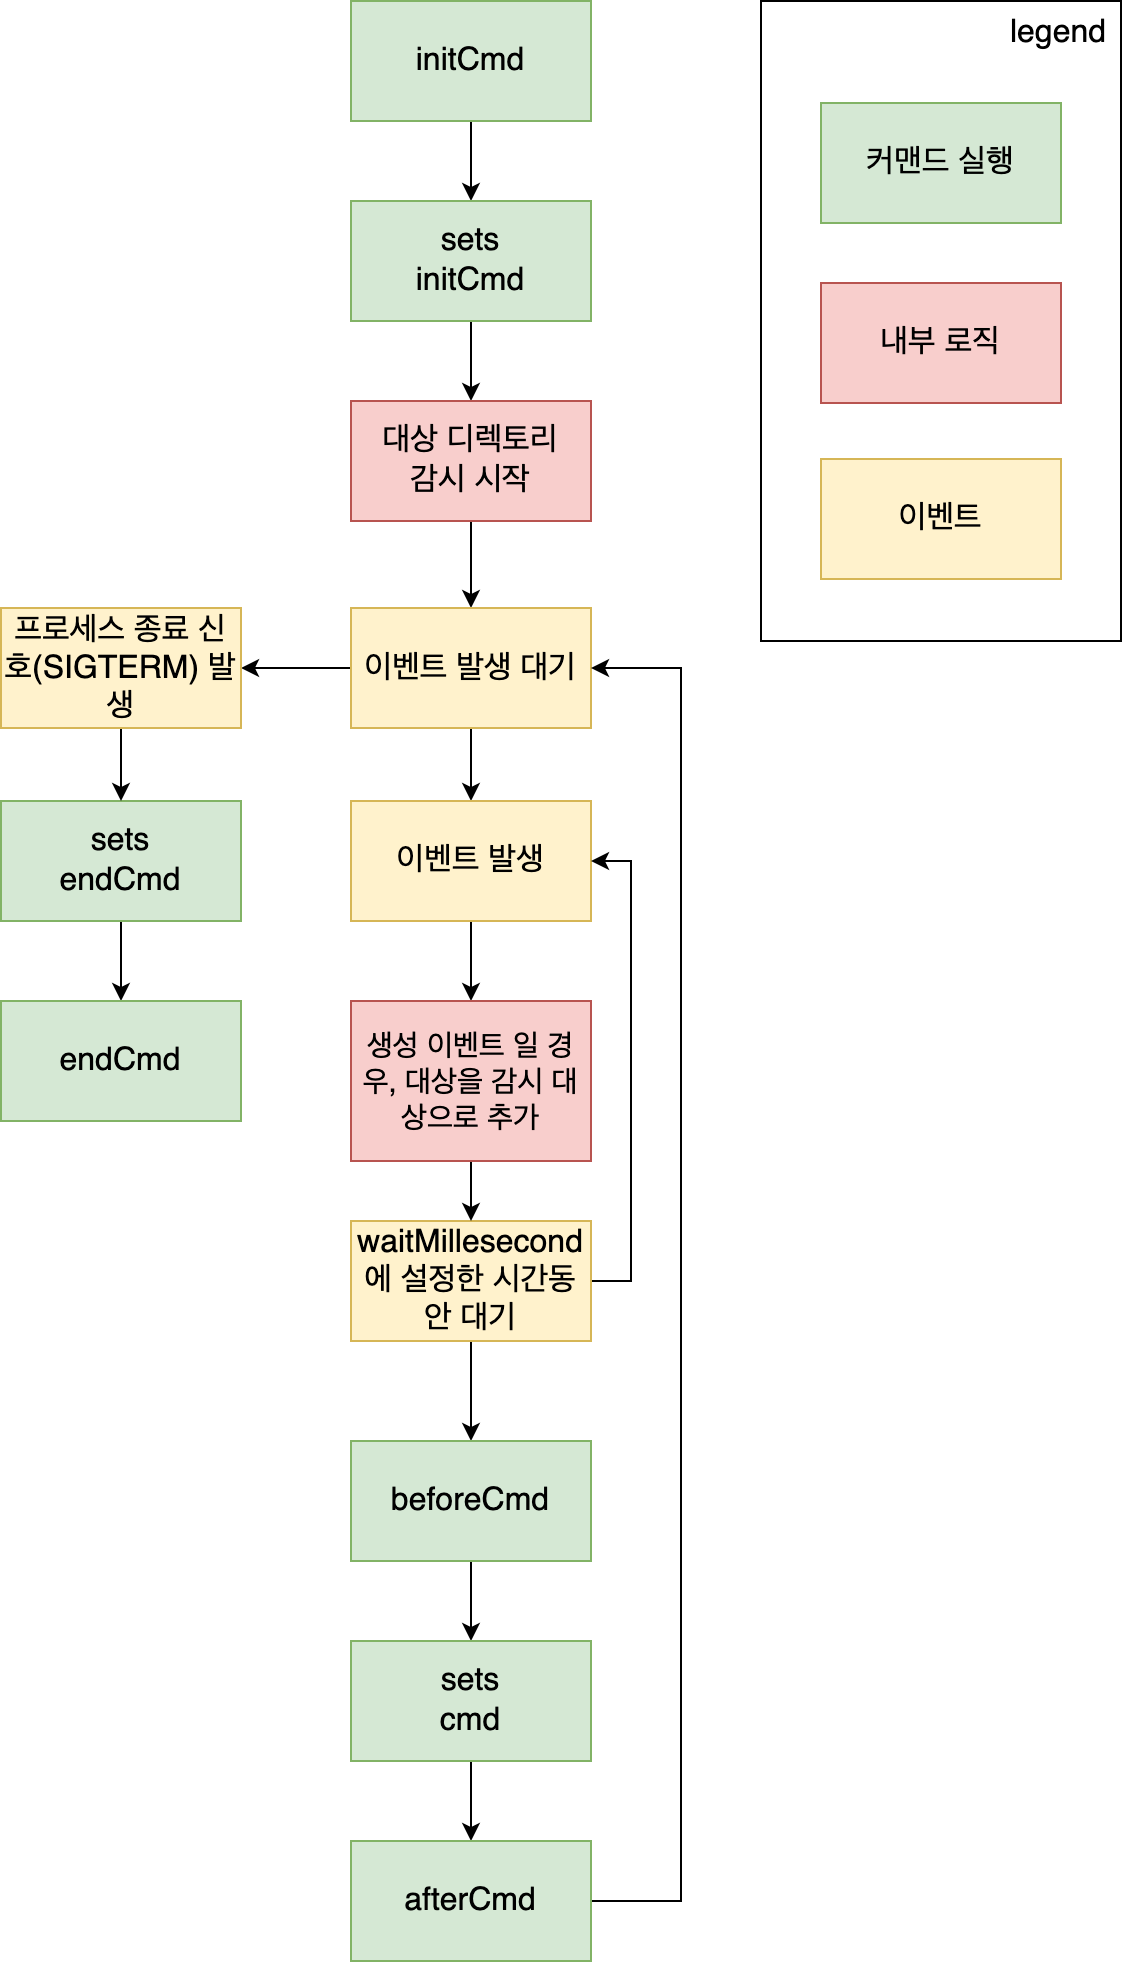
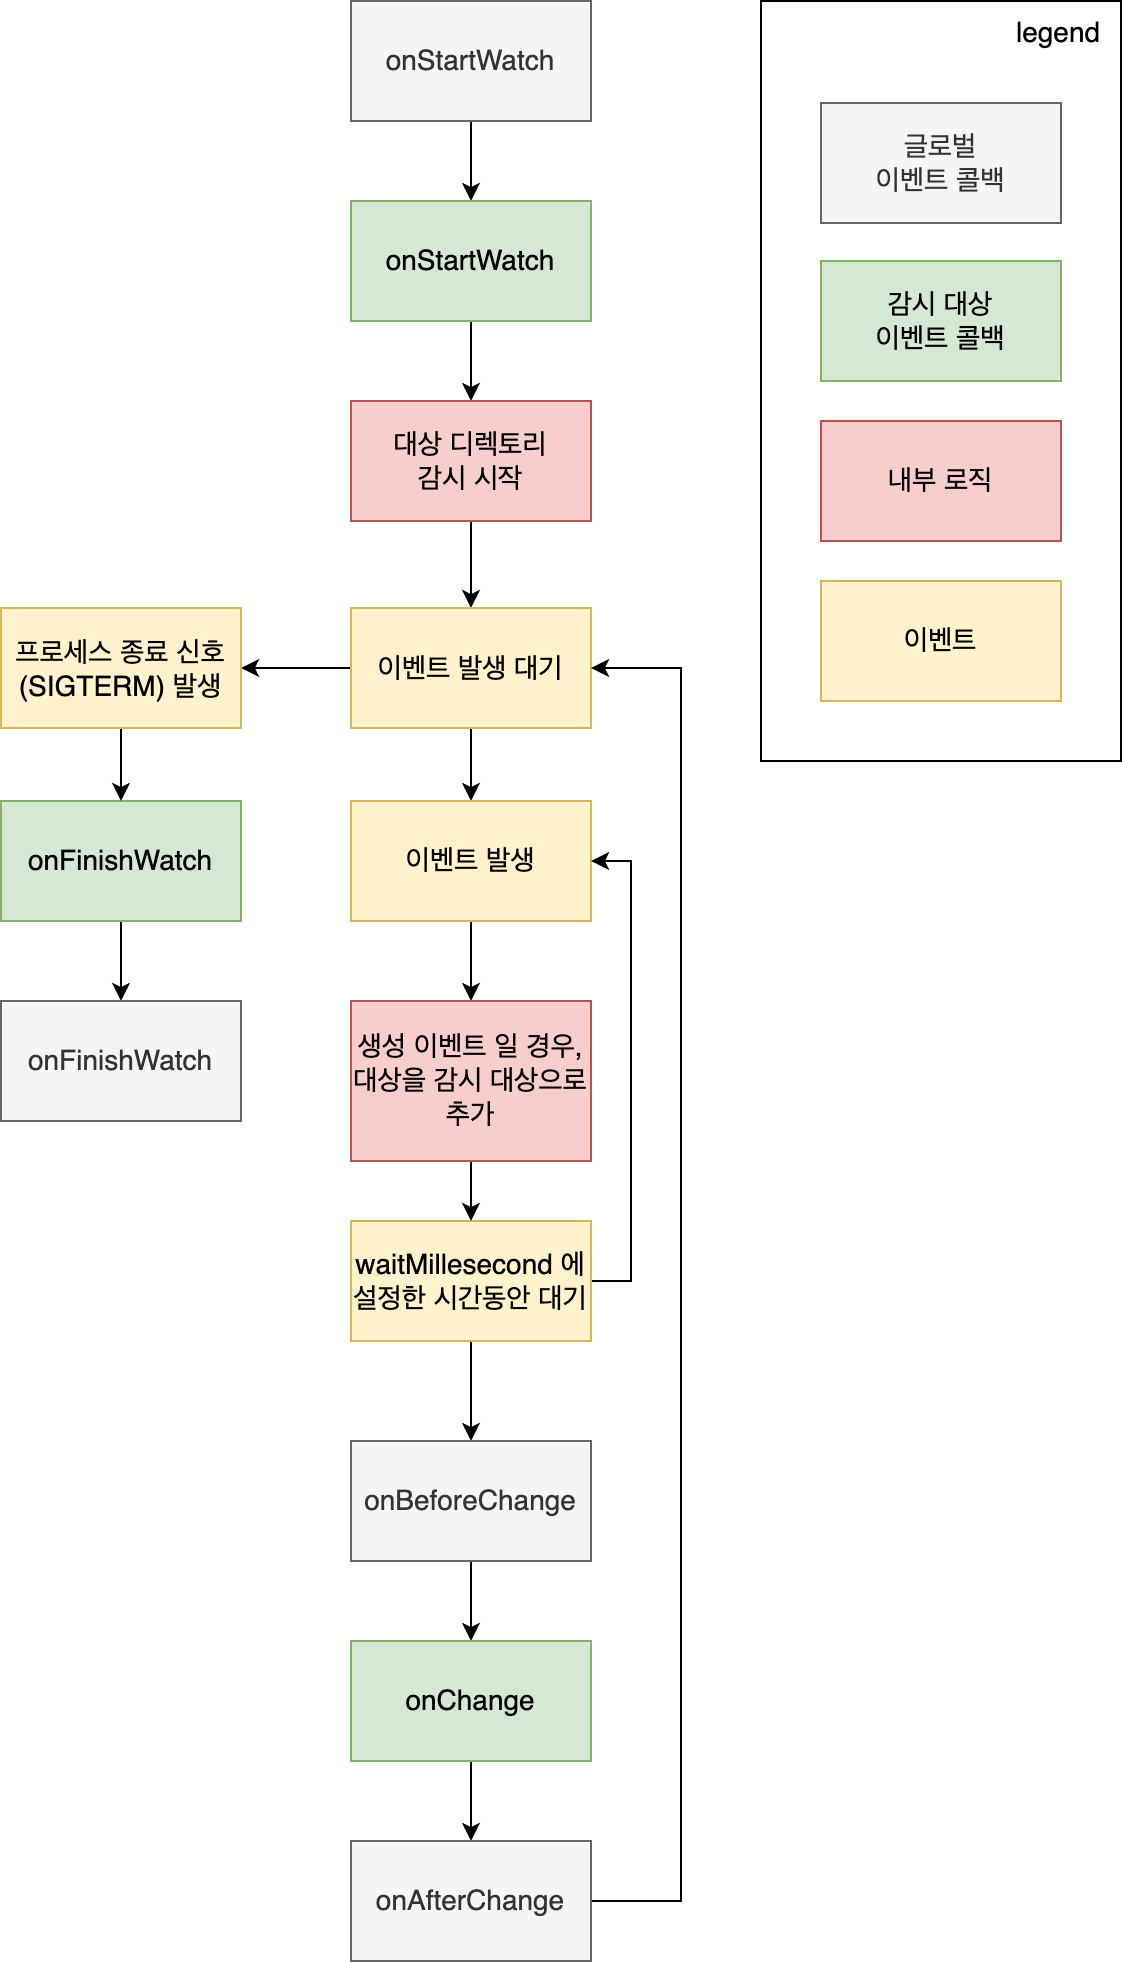
v2 spec 정의 및 다이어그램 수정

diff --git a/README.md b/README.md
@@ -39,29 +39,25 @@ Usage of ./bin/directory-watcher-macos-amd64:
 
 ## cmd 사양
 
+### yaml
+
 ```yaml
-# initCmd, endCmd, beforeCmd, afterCmd, cmd 에 동일 사양 적용
-# dir 설정 하는 곳이 없는 경우 dir은 commandSet의 path를 따른다.
-## commandSet의 Path => root: 프로그램 실행 위치의 path, sets: path로 설정한 폴더
-# dir 설정하는 곳의 기준 path는 프로그램 실행 위치의 path이다. 
----
-cmd: '실행 커맨드'
----
-cmd:
-  dir: '실행 커맨드가 실행 될 디렉토리경로'
-  cmd: '실행 커맨드'
----
-cmd:
-  dir: '실행 커맨드가 실행 될 디렉토리경로'
-  cmd:
-    - '실행 커맨드 1'
-    - '실행 커맨드 2'
----
-cmd:
-  - '실행 커맨드 1'
-  - '실행 커맨드 2'
+# lifeCycle하부 callback에 동일 사양 적용
+cmdInfo:
+  - '실행 커맨드'
   - dir: '실행 커맨드가 실행 될 디렉토리경로'
-    cmd: '실행 커맨드 3'
-  - - '실행 커맨드 4-1'
-    - '실행 커맨드 4-2'
+    cmd: '실행 커맨드'
+  - dir: '실행 커맨드가 실행 될 디렉토리경로'
+    cmd:
+      - '실행 커맨드 1'
+      - '실행 커맨드 2'
 ```
+
+### cmd 실행 위치 적용 룰
+
+- global
+  - dir O => dir 값 적용
+  - dir X => 프로그램 실행 위치 적용
+- watchTargets
+  - dir O => dir 값 적용
+  - dir X => path 값 적용
